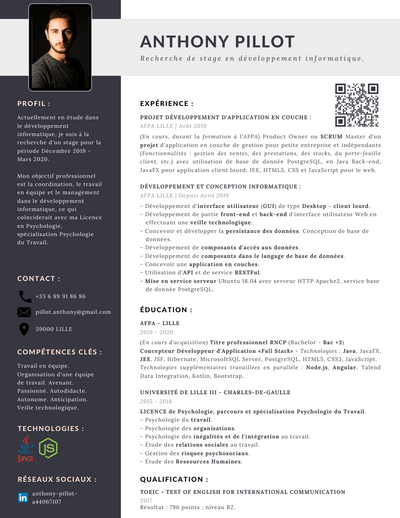
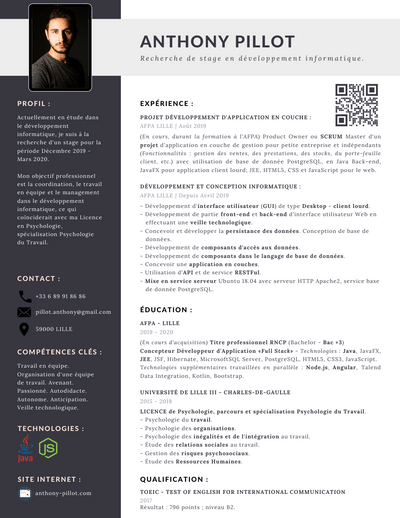
Actualisation du CV (suppression du LinkedIn pour mettre mon site internet)

Changed region(s): [[0.03, 0.8958, 0.24, 0.9884], [0.84, 0.1544, 0.96, 0.2471]]

diff --git a/public/fr/index.html b/public/fr/index.html
@@ -6,7 +6,7 @@
     <meta content="Anthony Pillot Développeur informatique à Lille - IT Developer. Formé sur le back-end Java, je travaille également en parallèle sur d'autre technologies telles que Node.js et Angular."
           name="description"/>
     <meta content="Anthony Pillot" name="author"/>
-    <meta content="1.2" name="version"/>
+    <meta content="1.22" name="version"/>
 
     <!-- Favicon-->
     <link href="assets/img/logo/favicon-code.png" rel="icon">
